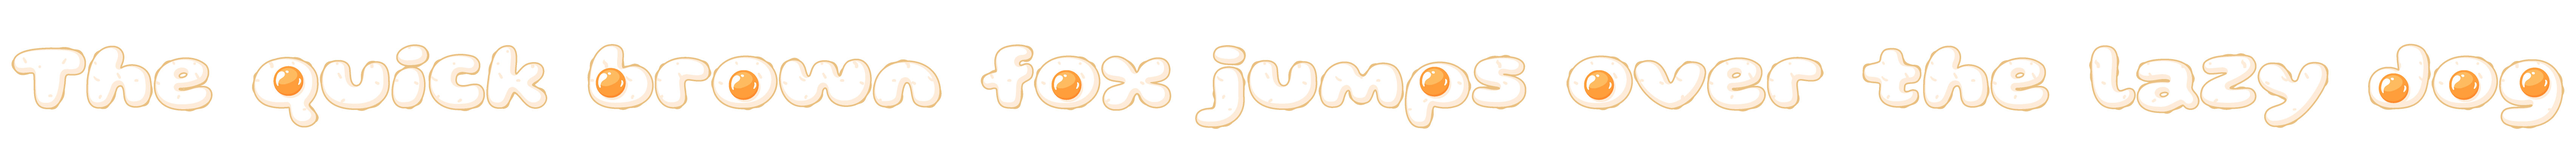
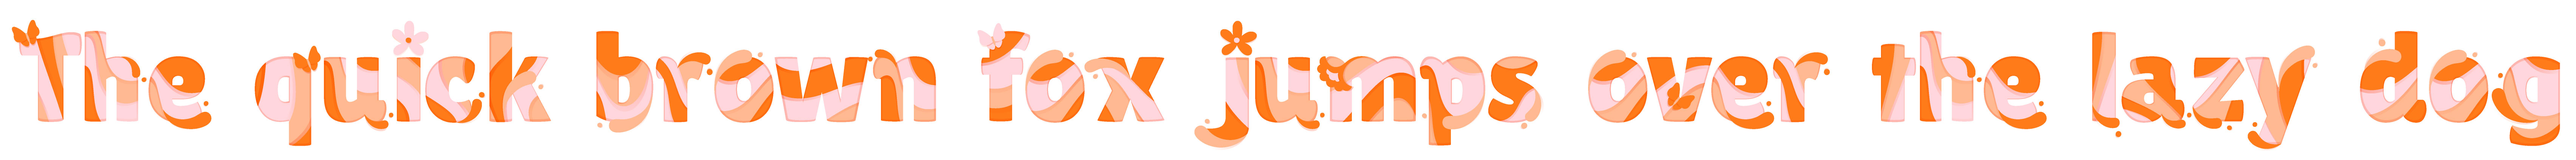
Summary Initial portfolio

Changed region(s): [[0.0, 0.1529, 1.0, 0.9482]]

diff --git a/project7.html b/project7.html
@@ -30,10 +30,11 @@
         <img src="images/font_7.jpg" alt="">
         <img src="images/font_preview_7.jpg" alt="">
         <img src="images/font_8.jpg" alt="">
-        <img src="images/font_9.jpg" alt="">
         <img src="images/font_preview_8.jpg" alt="">
-        <img src="images/font_10.jpg" alt="">
+        <img src="images/font_9.jpg" alt="">
         <img src="images/font_preview_9.jpg" alt="">
+        <img src="images/font_10.jpg" alt="">
+        <img src="images/font_preview_10.jpg" alt="">
         <p>
             Aquí va la descripción del proyecto. Puedes añadir texto largo, proceso,
             concepto, etc.
